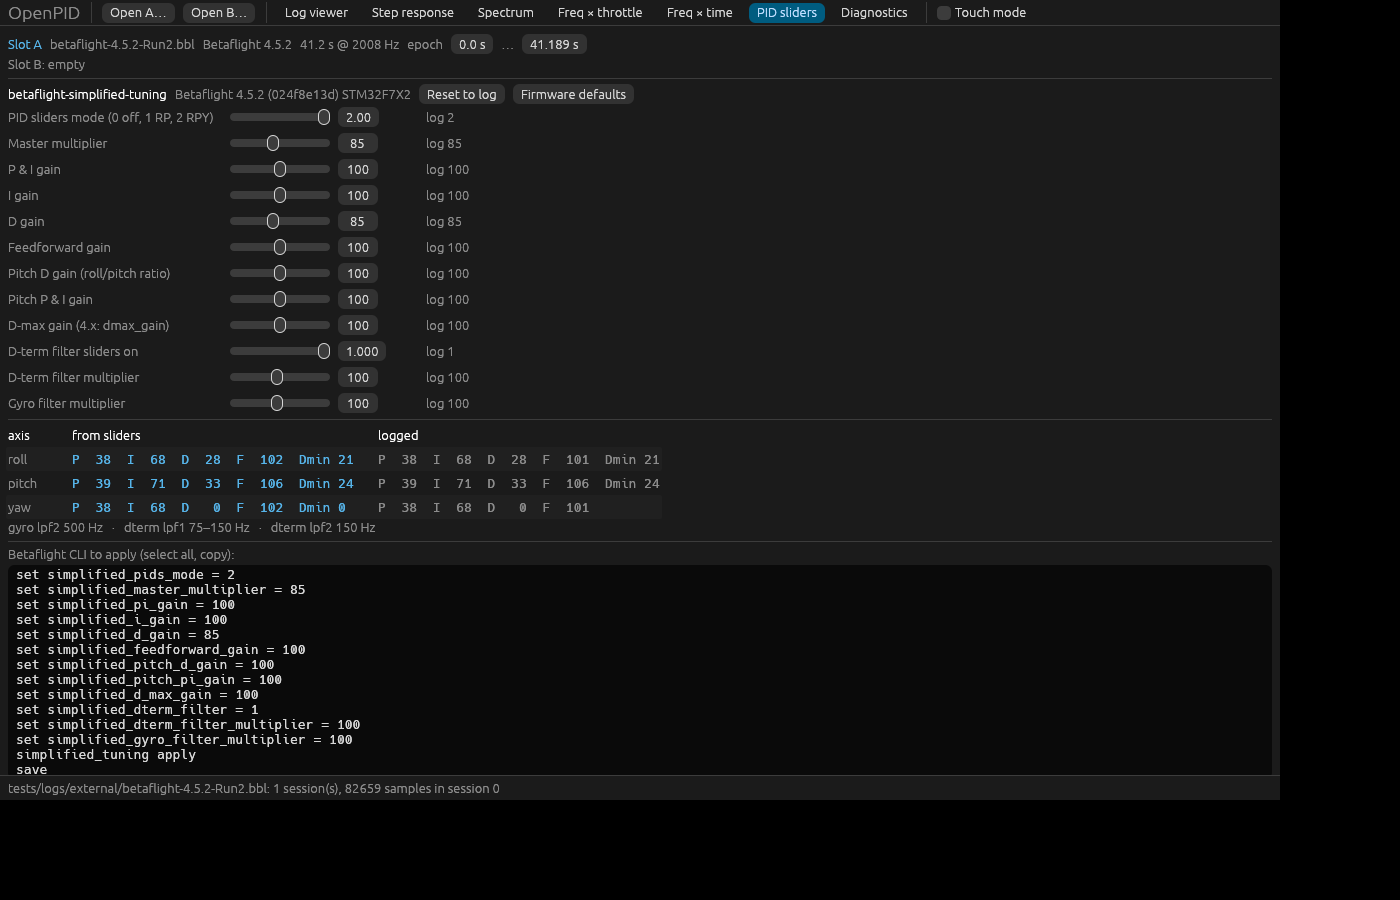
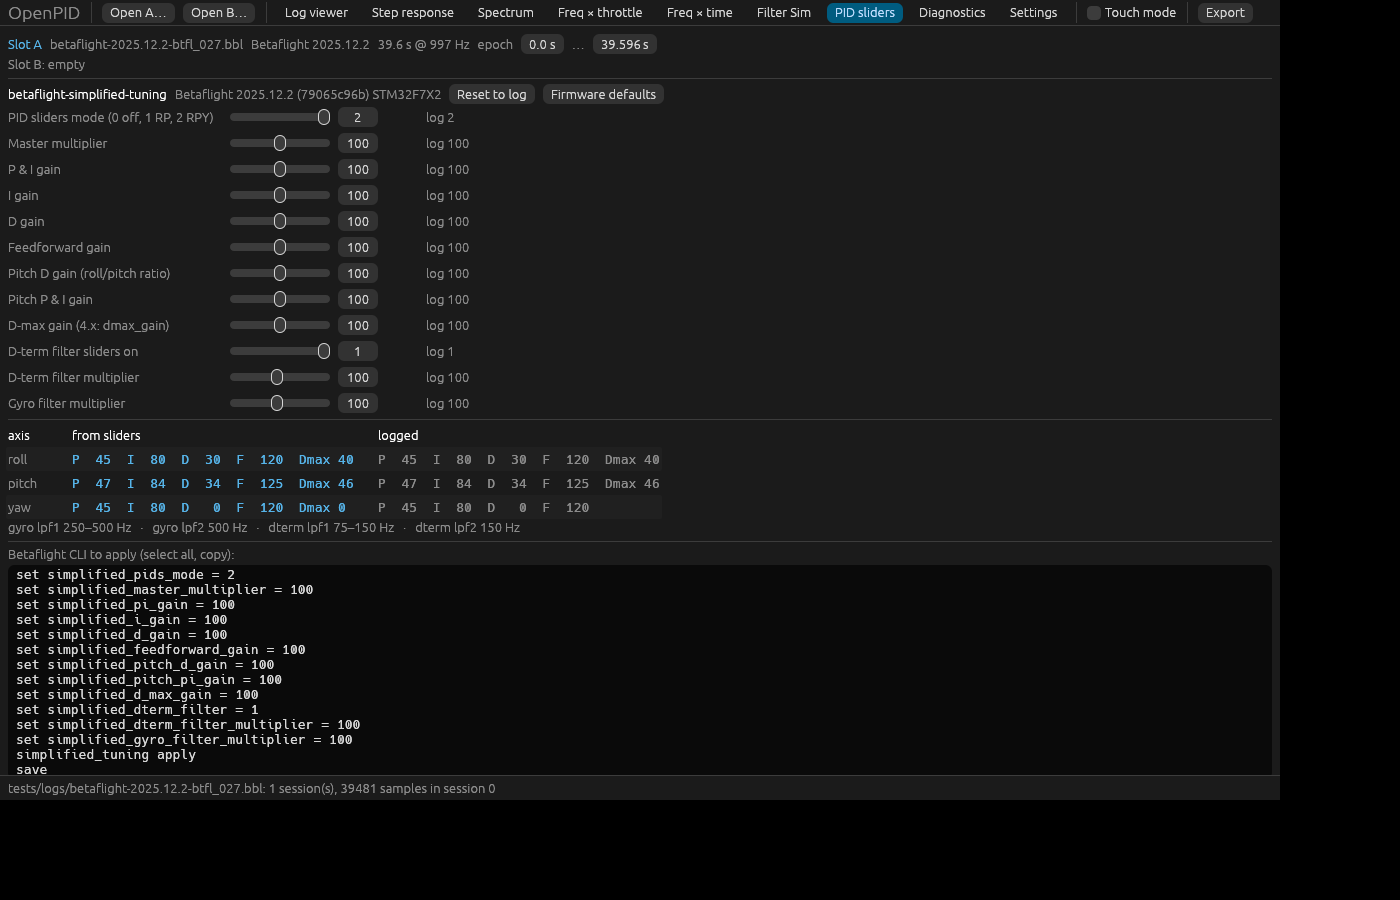
docs: user guide draft, screenshot script and regenerated screenshots (WIP)

diff --git a/docs/USER-GUIDE.md b/docs/USER-GUIDE.md
@@ -1,0 +1,227 @@
+# OpenPID — посібник користувача
+
+OpenPID читає blackbox‑логи (Betaflight, EmuFlight, Rotorflight, INAV, ArduPilot
+DataFlash, CSV з `blackbox_decode`) і показує те, що потрібно для тюнінгу PID і
+фільтрів: часові графіки, step response, спектри, теплові карти частота×газ і
+частота×час, симуляцію фільтрів, шум моторів і PID‑слайдери Betaflight. Усе,
+що робить GUI, має еквівалент у CLI (`openpid run …`), тож результати можна
+відтворити скриптом.
+
+Робочий процес (DESIGN §7.3): **відкрити лог → вибрати сесію й епоху → подивитися
+інструмент → змінити параметри → порівняти з логом B → зберегти проєкт або
+експортувати.**
+
+## 1. Запуск і відкриття логів
+
+```sh
+cargo run --release -p openpid-app                      # або ./target/release/openpid-gui
+./target/release/openpid-gui logA.bbl logB.bbl --tab step   # одразу два логи й вкладка
+./target/release/openpid-gui flight.openpid.json          # проєкт (п. 12)
+```
+
+- **Open A… / Open B…** у верхній панелі або перетягніть файли у вікно: один файл
+  займає вільний слот (спочатку A), два — A і B.
+- Лог із кількома сесіями (кілька армувань) відкривається на найдовшій; інша
+  обирається у списку **session** біля назви слота. Епоха при зміні сесії
+  скидається.
+- Рядок стану внизу показує, що завантажено, скільки сесій і зразків, а також
+  результат збереження/експорту.
+- **Touch mode** (прапорець угорі) збільшує контроли; вмикається сам при першому
+  дотику.
+
+![Log viewer](screenshots/log.png)
+
+## 2. Log viewer — епоха й канали
+
+- **Channels**: прапорці каналів слота A; поле **filter** звужує список
+  (`gyro`, `pid.d`, `motor`…). Назви каналів однакові для всіх прошивок:
+  `gyro.filtered.roll`, `gyro.raw.pitch`, `setpoint.yaw`, `pid.p.roll`,
+  `motor.0`, `motor_rpm.0`, `throttle`, `rc.3`, `debug.0`, `custom:…`.
+- **Курсор**: клік або тап по графіку. Кнопки **A start = cursor** /
+  **A end = cursor** задають епоху — вікно часу, яке аналізують усі інструменти.
+- **Межі епохи** можна перетягувати прямо на графіку (заштрихована область,
+  ручки 8 px, 22 px у touch‑режимі); перетягування поза ручками панорамує графік.
+- Масштабування — колесо або pinch, панорамування — перетягування, подвійний
+  клік скидає масштаб.
+- Одиниці кутової швидкості (deg/s або rad/s) і прискорення (g або m/s²)
+  обираються у Settings і діють лише на трейси цієї вкладки.
+
+Епоха зберігається у ключі кешу: кожна комбінація «сесія + епоха + параметри»
+рахується один раз у фоновому потоці, тож перемикання вкладок миттєве.
+
+## 3. Step response
+
+![Step response](screenshots/step.png)
+
+Відгук на одиничний крок setpoint → gyro за Wiener‑деконволюцією (DESIGN §6.2):
+епоха ріжеться на вікна, вікна з малим стіком відкидаються, решта усереднюється
+з вагою за амплітудою входу, окремо для **low** (< `high input`) і **high**
+входів. Гістограма внизу показує розкид відгуків окремих вікон.
+
+| Параметр | Що робить | Типово |
+|---|---|---|
+| Axis | roll / pitch / yaw | roll |
+| window | довжина вікна, с | 2 |
+| cutoff | частота зрізу деконволюції, Гц (вище — шум) | 25 |
+| min input | мінімальний пік setpoint у вікні, °/с | 20 |
+| high input | межа груп low/high, °/с | 500 |
+| smooth | ковзне середнє по кривій, мс (0 = без) | 0 |
+| Y‑offset | нормувати кожне вікно на його усталений хвіст | вимк. |
+
+Рядок метрик: `rise` 10–90 %, `delay (50 %)` — перший перетин половини
+усталеного значення, `latency (xcorr)` — зсув максимуму крос‑кореляції
+setpoint↔gyro (транспортна затримка осі; для плавного стіку включає частину
+відставання об'єкта, тому читайте поруч із delay), `overshoot`, `settling` ±5 %,
+`final` — усталене значення (≈1; менше означає, що гіро не доходить до setpoint).
+
+Як читати: повільне наростання і `final` < 1 — замало P/FF або завеликі
+фільтри; перерегулювання > 10–15 % і коливання — забагато P чи замало D;
+`latency` помітно більший за сусідні логи — зайва затримка у фільтрах.
+
+## 4. Spectrum
+
+PSD Велча обраного каналу (DESIGN §6.3). **Channel** — будь‑який канал, кнопки
+осі підставляють `gyro.filtered.<вісь>`; **segment** — довжина сегмента (довший
+= дрібніша частотна сітка, менше усереднення), **max** обмежує вісь частот,
+**dB** перемикає шкалу.
+
+- **peaks** / **prominence** — автоматичні маркери N найпомітніших піків
+  (помітність у дБ над оточенням); підпис показує частоту й рівень.
+- Клік по графіку ставить ручний маркер (прилипає до найближчого біна); рядок
+  під контролами показує частоти маркерів і Δ між двома останніми, **Clear
+  markers** прибирає їх. Ручні маркери дублюються горизонтальними лініями на
+  обох теплових картах — зручно звіряти пік спектра з гармонікою мотора.
+
+Порівняйте `gyro.raw` і `gyro.filtered` одного логу: різниця — це робота
+фільтрів; піки, що лишилися у filtered, і є те, що доходить до PID.
+
+## 5. Freq × throttle
+
+![Freq × throttle](screenshots/throttle.png)
+
+Теплова карта амплітуди спектра залежно від газу (DESIGN §6.4): епоха ріжеться
+на сегменти (**segment**, с), кожен отримує спектр і середній газ; для кожного
+біна газу 0…100 % усереднюються сегменти в межах **throttle window ±** %.
+**max** — верхня частота, **colour max** — стеля шкали кольору (0 = автоматично,
+99‑й процентиль без рядків нижче 20 Гц).
+
+- Під картою — смуга **сегментів на бін**: скільки сегментів потрапило в кожен
+  бін газу. Біни з кількістю меншою за **min segments** затемнені: там даних
+  немає, а не тиша.
+- **RPM overlay** (коли в логу є eRPM): лінії гармонік `k·rpm/60` кожного мотора
+  (кольори за моторами, перемикачі M1…Mn, **harmonics** — скільки малювати, 0 =
+  стільки, скільки знімає RPM‑фільтр), смуги статичних notch, смуга dyn notch і
+  мінімум RPM‑фільтра (**notches**). Хребет шуму має лягати на лінію
+  фундаментальної гармоніки; якщо він вище/нижче — `motor_poles` або `rpm_min`
+  виставлені неправильно.
+
+## 6. Freq × time
+
+Спектрограма (STFT) каналу: частота по вертикалі, час по горизонталі. Параметри
+**segment** і **max** як у п. 5. Показує, як шум змінюється протягом польоту
+(розгін моторів, пропвош, резонанси при певних маневрах). Ручні маркери з
+вкладки Spectrum також видно тут.
+
+## 7. Filter Sim
+
+![Filter Sim](screenshots/filter.png)
+
+Нефільтроване гіро (`gyro.raw`) проганяється через модель ланцюга фільтрів,
+зібрану з налаштувань логу (DESIGN §6.6): LPF1 (статичний або залежний від
+газу), LPF2, статичні notch, RPM‑notch на гармоніках моторів, dyn notch, що
+стежить за піками. Потрібен лог із нефільтрованим гіро: Betaflight ≥ 4.5 пише
+`gyroUnfilt`, старіші — `debug_mode = GYRO_SCALED`; ArduPilot — batch sampler.
+
+- Рядок **fit**: залишок `gyro.sim − gyro.filtered` у % від RMS фільтрованого
+  (наскільки модель повторює прошивку; 5–15 % — норма, модель працює на частоті
+  логу), для порівняння — залишок без фільтрів, і затримка sim відносно логу.
+- **What‑if**: поля редактора показують значення з логу; змінене поле стає
+  override (підсвічується) і перераховує симуляцію. 0 вимикає стадію. **Reset
+  to log** повертає все.
+- Графіки: PSD raw / logged filtered / sim as flown (пунктир) / sim what‑if і
+  ті самі ряди в часі.
+
+Типовий сценарій: зняти LPF2 або підняти LPF1 і подивитися, скільки шуму
+прийде на PID (sim what‑if проти logged), перш ніж міняти прошивку.
+
+## 8. Motor noise
+
+![Motor noise](screenshots/motors.png)
+
+Таблиця: для кожного мотора — середні оберти, амплітуда гіро на гармоніках
+`×1…×n` і відношення до середнього по моторах, сума. Найгучніший мотор і
+відношення > 1.3 підсвічені: гнутий пропелер або битий підшипник видно як рядок,
+що випадає. Швидкості беруться з eRPM; без телеметрії працює оцінка з піків
+гіро (п. 9), тоді в таблиці один рядок на всі мотори. Нижче — спектр із
+гармоніками кожного мотора у його кольорі.
+
+## 9. Оберти без eRPM
+
+`openpid run rpm <log>` оцінює оберти з піків спектра `gyro.raw` (DESIGN §6.6):
+кандидати — найсильніші піки у смузі `rpm_min..rpm_max` і їхні гармоніки,
+динамічне програмування обирає неперервний шлях; у виводі `confidence`
+кожного кадру і, якщо eRPM є, `median_error` для контролю. Фільтроване гіро для
+цього не годиться — RPM‑фільтр уже зняв піки.
+
+## 10. PID sliders
+
+![PID sliders](screenshots/sliders.png)
+
+Для логів Betaflight 4.3+ із simplified tuning: слайдери, з якими летів лог, і
+коефіцієнти, які вони дають. Рухайте слайдери — праворуч нові PID і готові
+команди CLI (`set …`); **Reset** повертає значення з логу. Те саме в терміналі:
+`openpid sliders <log> --set simplified_master_multiplier=110`.
+
+## 11. Diagnostics і Settings
+
+- **Diagnostics**: прошивка, профіль, частоти, кадри (валідні/пошкоджені/
+  resync), прогалини, нерозпізнані поля, усі заголовки логу (для ArduPilot — усі
+  `PARM`), нотатки декодера (batch sampler, хвіст іншого файлу тощо).
+- **Settings**: тема (dark/light), touch‑режим на старті, одиниці deg/s↔rad/s і
+  g↔m/s². Зберігається у `prefs.json` каталогу конфігурації (`~/.config/openpid`,
+  `~/Library/Application Support/openpid`, `%APPDATA%\openpid`; `OPENPID_CONFIG_DIR`
+  перевизначає).
+
+## 12. Порівняння A/B, проєкти, експорт
+
+- **A/B**: завантажте другий лог у слот B — кожна вкладка малює обидва слоти
+  (кольори A/B у легенді, таблиці поруч). Епоха в кожного слота своя.
+- **Project → Save as…** записує `.openpid.json`: логи (шляхи відносно файлу
+  проєкту), сесії, епохи, вкладку, touch‑режим і всі параметри інструментів;
+  **Open…**, перетягування або аргумент командного рядка відновлює вид.
+  `openpid run step --project flight.openpid.json` бере лог слота A, сесію, епоху
+  й параметри з проєкту.
+- **Export → Plot as PNG…** зберігає область вкладки; **A/B result as JSON…**
+  — результат аналізу точно таким, як друкує `openpid run … `. Для теплових карт
+  `openpid run thr-heatmap <log> --png out.png` пише картинку сітки.
+
+## 13. CLI — відповідності
+
+| Вкладка | Команда |
+|---|---|
+| Log viewer | `openpid info <log>`, `openpid decode <log> --scaled` |
+| Step response | `openpid run step <log> --axis pitch --epoch 2..12` |
+| Spectrum | `openpid run psd <log> --channel gyro.raw.roll` |
+| Freq × throttle | `openpid run thr-heatmap <log> [--png out.png]` |
+| Freq × time | `openpid run stft <log> --channel motor.0` |
+| Filter Sim | `openpid run filter-sim <log> --set lpf1_hz=100,lpf1_type=1` |
+| Motor noise | `openpid run motor-noise <log>` |
+| Оберти без eRPM | `openpid run rpm <log>` |
+| PID sliders | `openpid sliders <log> --set …` |
+| Синтетичний лог | `openpid gen --example > spec.json; openpid gen spec.json --out synthetic.csv` |
+
+`--session N` обирає сесію, `--epoch A..B` — секунди, `--out` пише у файл.
+
+## 14. Якщо щось не так
+
+| Симптом | Причина й що робити |
+|---|---|
+| «no unfiltered gyro in this log» | Увімкніть `gyroUnfilt` у полях blackbox (BF 4.5+) або `debug_mode = GYRO_SCALED`; на ArduPilot — `INS_LOG_BAT_MASK`. |
+| RPM overlay відсутній | У логу немає eRPM (DShot‑телеметрія вимкнена). Оберти можна оцінити (`run rpm`). |
+| Step response: «none of N windows had stick input» | Епоха без маневрів або `min input` зависокий; оберіть ділянку з рухом стіка. |
+| Freq × throttle майже порожня | Короткий політ або вузький діапазон газу: дивіться смугу сегментів на бін. |
+| Лог відкрився з «corrupt frames» у Diagnostics | Пошкоджені кадри пропущені; якщо їх багато — карта/лог‑швидкість (див. docs/BLACKBOX-VERSIONS.md). |
+| ArduPilot: setpoint сходинками | `RATE`/`PIDR` пишуться на 10 Гц; увімкніть `ATTITUDE_FAST` і `PID` у `LOG_BITMASK`. |
+
+Скріншоти оновлюються скриптом `tools/screenshots.sh` (Xvfb + ImageMagick) на
+фікстурі Betaflight 2025.12.
